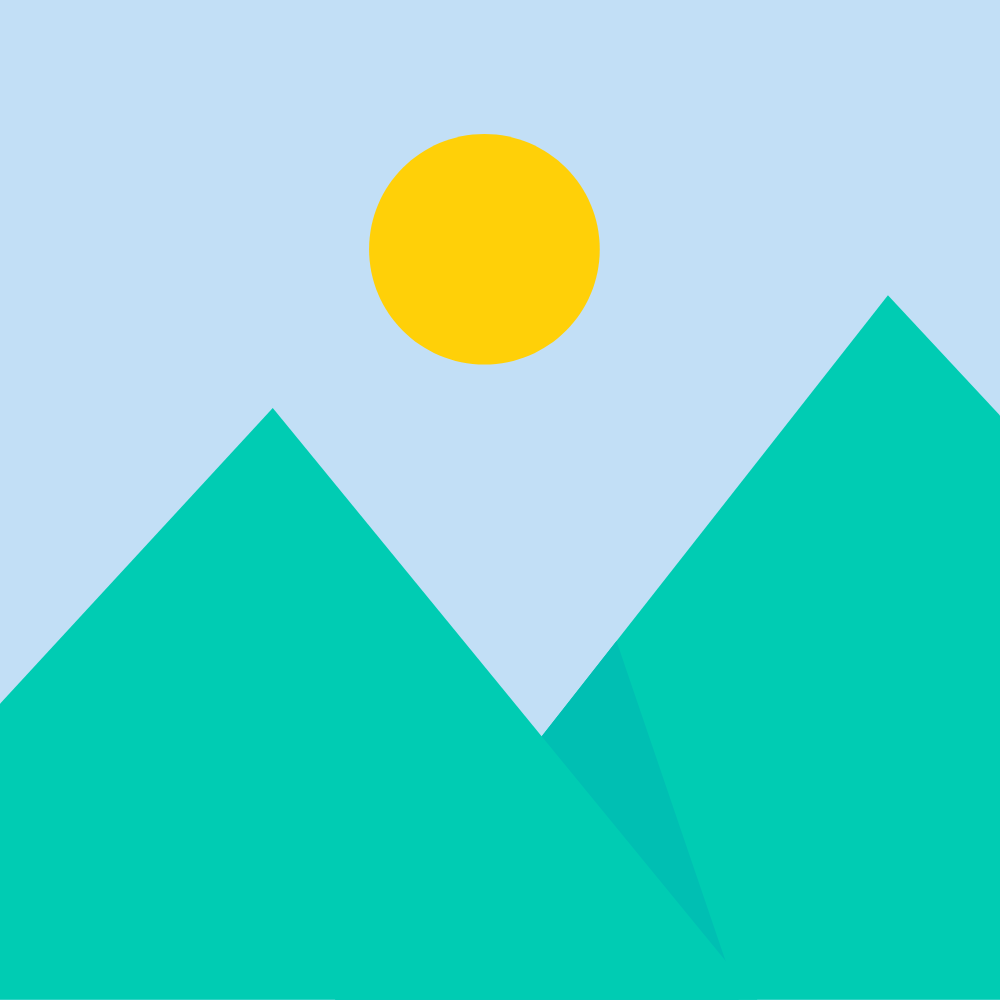
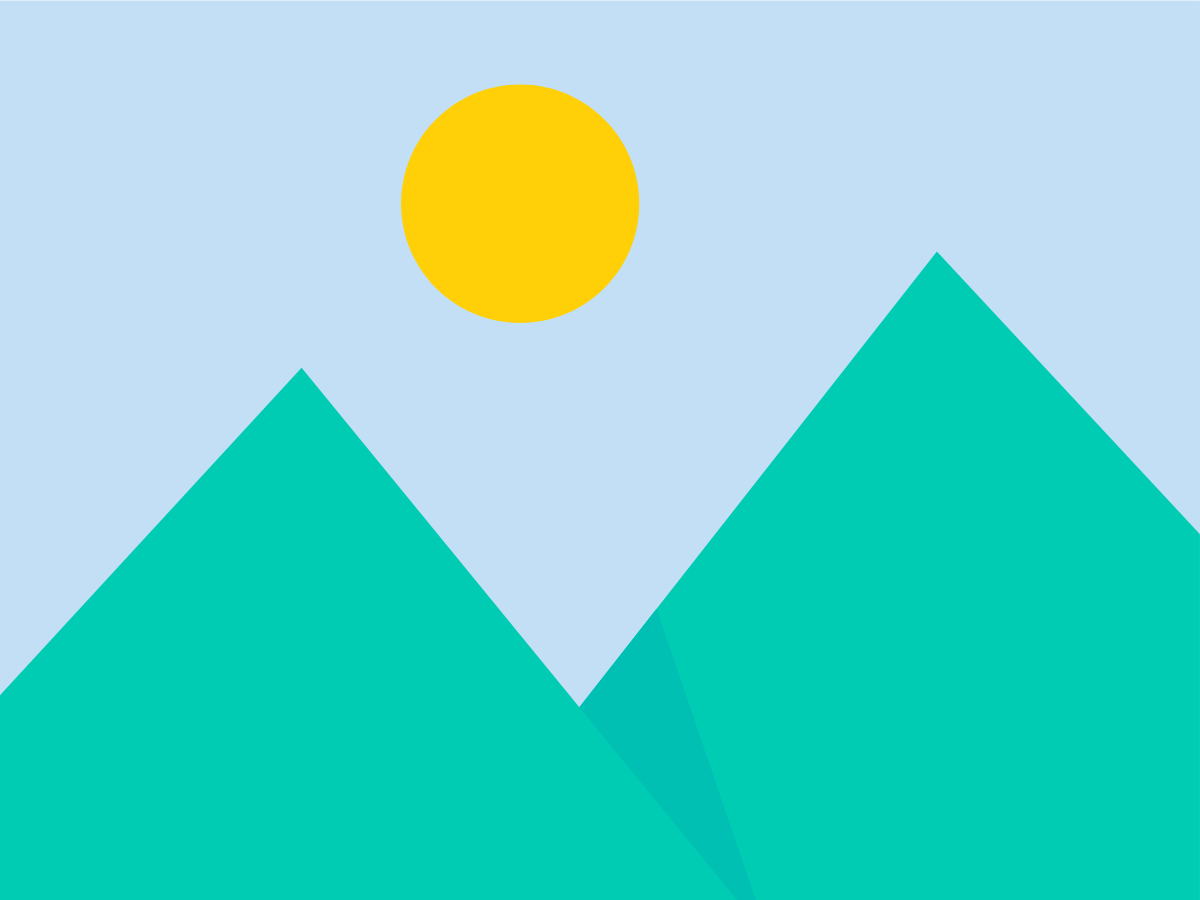
putting in size limitations and suggested size for image

diff --git a/src/Components/ItemForm/ItemForm.tsx b/src/Components/ItemForm/ItemForm.tsx
@@ -2,7 +2,7 @@ import React, { useState } from "react";
 import Select from "react-select";
 import { Button, Input, Form, Textarea } from "react-daisyui";
 import { categoryNames } from "../../common";
-import { getBase64 } from "../../Utils/imageUtils";
+import { getBase64, MAX_IMAGE_SIZE_MB } from "../../Utils/imageUtils";
 import itemPlaceholder from "../../Images/item-placeholder.png";
 interface ItemProps {
   setModalVisible: React.Dispatch<React.SetStateAction<boolean>>
@@ -26,12 +26,19 @@ const ItemForm = ({ setModalVisible }: ItemProps): React.JSX.Element => {
       files: FileList;
     };
     const newFile = target.files[0];
-    const promise = await getBase64(newFile);
-    if (promise) {
-      setItemImage(promise);
+    const fileSizeMB = newFile.size / (1024 * 1024); // Convert bytes to megabytes
+    if (fileSizeMB > MAX_IMAGE_SIZE_MB) {
+      alert(`Please select an image smaller than ${MAX_IMAGE_SIZE_MB} MB.`);
+      target.value = "";
     }
     else {
-      console.error("Failed to get base64 data for the file.");
+      const promise = await getBase64(newFile);
+      if (promise) {
+        setItemImage(promise);
+      }
+      else {
+        console.error("Failed to get base64 data for the file.");
+      }
     }
   };
 
@@ -111,7 +118,7 @@ const ItemForm = ({ setModalVisible }: ItemProps): React.JSX.Element => {
         <Input
           onChange={handleImageChange}
           className="block w-full text-sm text-gray-900 border border-gray-300 rounded-lg cursor-pointer bg-gray-50 dark:text-gray-400 focus:outline-none dark:bg-gray-700 dark:border-gray-600 dark:placeholder-gray-400" aria-describedby="file_input_help" id="file_input" type="file" />
-        <p className="mt-1 text-sm text-gray-500 dark:text-gray-300" id="file_input_help">SVG, PNG, or JPG (MAX. 800x400px).</p>
+        <p className="mt-1 text-sm text-gray-500 dark:text-gray-300" id="file_input_help">SVG, PNG, or JPG (Suggested: 1200x900px. Max Image Size: 5MB ).</p>
         <Button color="primary" type="submit">
           Create
         </Button>

diff --git a/src/Components/Signup/Signup.tsx b/src/Components/Signup/Signup.tsx
@@ -4,7 +4,7 @@ import { useNavigate } from "react-router-dom";
 import logo from "../../Images/sharecycle-white.png";
 import { Card, Input, Link, Button } from "react-daisyui";
 import defaultUserIcon from "../../Images/no-user.png";
-import { getBase64 } from "../../Utils/imageUtils";
+import { getBase64, MAX_IMAGE_SIZE_MB } from "../../Utils/imageUtils";
 
 const Signup = (): React.JSX.Element => {
   const navigate = useNavigate();
@@ -21,13 +21,20 @@ const Signup = (): React.JSX.Element => {
       files: FileList;
     };
     const newFile = target.files[0];
-    const promise = await getBase64(newFile);
-
-    if (promise) {
-      setProfileImage(promise);
+    const fileSizeMB = newFile.size / (1024 * 1024); // Convert bytes to megabytes
+    if (fileSizeMB > MAX_IMAGE_SIZE_MB) {
+      alert(`Please select an image smaller than ${MAX_IMAGE_SIZE_MB} MB.`);
+      target.value = "";
     }
     else {
-      console.error("Failed to get base64 data for the file.");
+      const promise = await getBase64(newFile);
+
+      if (promise) {
+        setProfileImage(promise);
+      }
+      else {
+        console.error("Failed to get base64 data for the file.");
+      }
     }
   };
 
@@ -105,7 +112,7 @@ const Signup = (): React.JSX.Element => {
                       <span className="label-text">Upload Profile Image:</span>
                     </label>
                     <Input onChange={handleFileInputChange} id="profileImage" name="profileImage" type="file" placeholder="Profile Image URL" color="primary" className="w-full max-w-xs" />
-
+                    <p className="mt-1 text-sm text-gray-500 dark:text-gray-300" id="file_input_help">SVG, PNG, or JPG (Suggested: 500x500px. Max Image Size: 5MB ).</p>
                   </div>
 
                   <Button fullWidth color="primary">Create New Account</Button>

diff --git a/src/Utils/imageUtils.ts b/src/Utils/imageUtils.ts
@@ -1,3 +1,5 @@
+export const MAX_IMAGE_SIZE_MB = 5;
+
 export const getBase64 = (file: File): Promise<string> => {
   return new Promise((resolve, reject) => {
     const reader = new FileReader();
